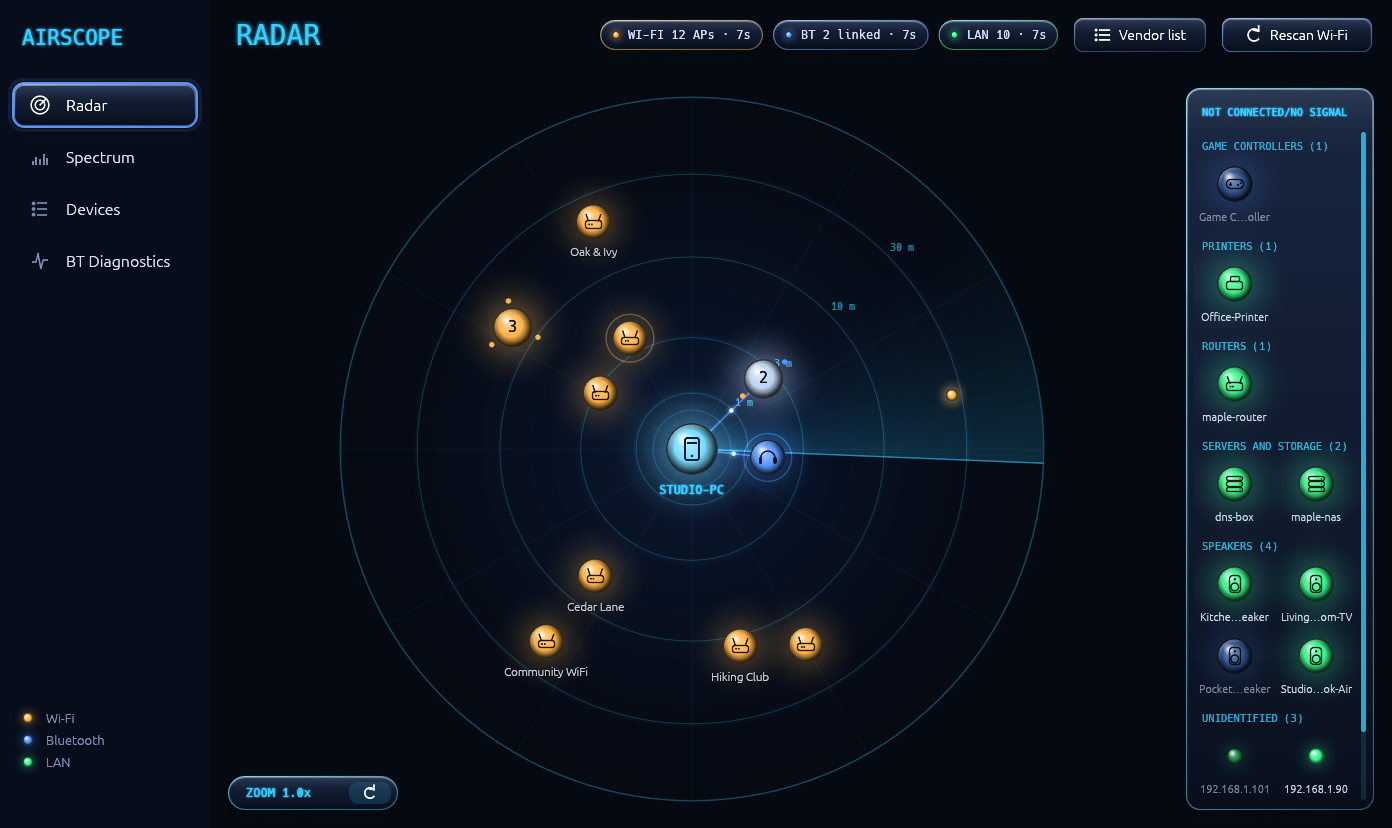
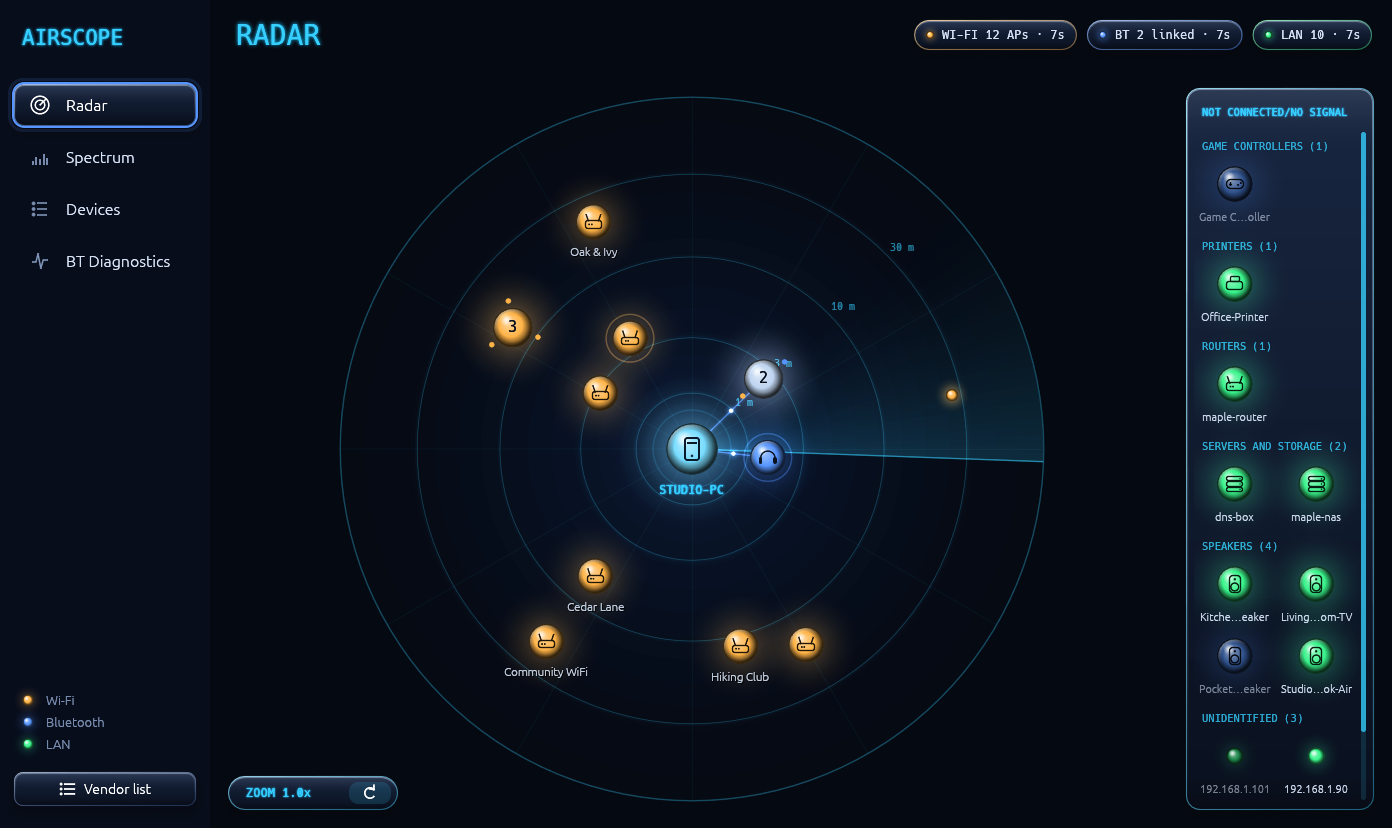
Help boxes for Diagnostics and Spectrum; refreshed screenshots and docs
- Help button on screens that have something the picture can't say; the boxes explain system log vs recording, and Spectrum overlap, Bluetooth hopping, channel choice and where the data comes from
- Screenshots regenerated for the new header, sidebar and tiles; two help screenshots added
- README credits Font Awesome Free for the question mark

Changed region(s): [[0.4325, 0.0, 0.9885, 0.0604], [0.0, 0.8454, 0.1545, 0.9662], [0.6487, 0.5435, 0.7414, 0.5737]]

diff --git a/src/main.rs b/src/main.rs
@@ -196,6 +196,54 @@ fn node_widget(ui: &egui::Ui, p: &egui::Painter, d: &Dev, n: &N, ni: usize, pos:
     }
 }
 
+/// What a help box row's marker looks like.
+#[derive(Clone, Copy)]
+enum Mark {
+    Dot(Color32),
+    Dash,
+}
+
+const SPECTRUM_HELP: [(Mark, &str, &str); 4] = [
+    (Mark::Dash, "Why the hills overlap", "A Wi-Fi network is about 20 MHz wide but channels are only 5 MHz apart, so it spills over its neighbours. Only channels 1, 6 and 11 stay clear of each other: a network on channel 3 disturbs both 1 and 6."),
+    (Mark::Dash, "Reading the Bluetooth rows", "Bluetooth shares this band with Wi-Fi. A lit cell is a channel the device hops on; gaps are channels it steers around because they were noisy. A fully lit row means it can't avoid anything, so it suffers most when Wi-Fi is busy."),
+    (Mark::Dash, "Choosing a channel", "Compare the three tiles at the bottom: the one with fewer and weaker networks is the quietest place for your router. Airscope only reports, it never changes a setting."),
+    (Mark::Dash, "Where the data comes from", "Airscope never starts a Wi-Fi scan itself, because a scan briefly disturbs Bluetooth on a shared chip. It shows what the system's own periodic scans find, so changes can take a little while to appear."),
+];
+
+/// A help box under the header's "?" button: a title and rows of marker, heading and wrapped description.
+/// Returns its rectangle (for outside-click closing).
+fn help_panel(ctx: &egui::Context, btn: Rect, title: &str, rows: &[(Mark, &str, &str)]) -> Rect {
+    let (w, pad) = (520.0f32, 20.0);
+    let tx = 34.0;
+    let wrap = w - 2.0 * pad - tx;
+    let lay = |t: &str, size: f32, col: Color32| ctx.fonts_mut(|f| f.layout(t.to_string(), FontId::proportional(size), col, wrap));
+    let laid: Vec<_> = rows.iter().map(|(_, h, d)| (lay(h, 14.0, Color32::WHITE), lay(d, 12.5, DIM))).collect();
+    let h = pad + 22.0 + 14.0 + laid.iter().map(|(a, b)| a.size().y + b.size().y + 16.0).sum::<f32>() + pad - 6.0;
+    let r = Rect::from_min_size(pos2((btn.right() - w).max(10.0), btn.bottom() + 8.0), vec2(w, h));
+    egui::Area::new(egui::Id::new("screen_help")).order(egui::Order::Foreground).fade_in(false).fixed_pos(r.min).show(ctx, |ui| {
+        let (_, _) = ui.allocate_exact_size(r.size(), Sense::click());
+        let p = ui.painter_at(r.expand(40.0));
+        panel(&p, r, 14.0, BLUE);
+        lcd(&p, pos2(r.left() + pad, r.top() + pad + 11.0), Align2::LEFT_CENTER, title, 16.0, CYAN);
+        let mut y = r.top() + pad + 22.0 + 14.0;
+        p.line_segment([pos2(r.left() + pad, y - 6.0), pos2(r.right() - pad, y - 6.0)], Stroke::new(1.0, alpha(CYAN, 0.2)));
+        for ((mark, _, _), (head, desc)) in rows.iter().zip(laid) {
+            let mc = pos2(r.left() + pad + 8.0, y + 9.0);
+            match mark {
+                Mark::Dot(c) => dot(&p, mc, 4.5, *c, 0.2),
+                Mark::Dash => {
+                    p.line_segment([mc - vec2(4.0, 0.0), mc + vec2(4.0, 0.0)], Stroke::new(1.5, alpha(CYAN, 0.7)));
+                }
+            }
+            let (hh, dh) = (head.size().y, desc.size().y);
+            p.galley(pos2(r.left() + pad + tx, y), head, Color32::WHITE);
+            p.galley(pos2(r.left() + pad + tx, y + hh + 2.0), desc, DIM);
+            y += hh + dh + 16.0;
+        }
+    });
+    r
+}
+
 #[derive(Clone, Copy, PartialEq)]
 enum Screen {
     Radar,
@@ -484,7 +532,7 @@ impl App {
 
     /// Screens that have an "About this screen" button (the rest explain themselves).
     fn has_help(s: Screen) -> bool {
-        matches!(s, Screen::Diagnostics)
+        matches!(s, Screen::Diagnostics | Screen::Spectrum)
     }
 
     /// Dialog for importing a newer vendor list, drawn like the rest of the app: centred, dimmed backdrop.
@@ -2572,7 +2620,10 @@ impl eframe::App for App {
             let btn = self.help_btn.filter(|_| Self::has_help(self.screen));
             match btn {
                 Some(b) => {
-                    let r = diag::Diag::help_box(ui.ctx(), b);
+                    let r = match self.screen {
+                        Screen::Spectrum => help_panel(ui.ctx(), b, "SPECTRUM", &SPECTRUM_HELP),
+                        _ => diag::Diag::help_box(ui.ctx(), b),
+                    };
                     let (esc, out) = ui.input(|i| (i.key_pressed(egui::Key::Escape), i.pointer.primary_clicked() && i.pointer.interact_pos().map_or(false, |q| !r.contains(q) && !b.contains(q))));
                     if esc || out {
                         self.help_open = false;

diff --git a/src/diag/page.rs b/src/diag/page.rs
@@ -876,11 +876,9 @@ impl Diag {
             ("Data packet counts", (false, ""), (true, "")),
             ("Starts at once, no password", (true, ""), (false, "asks for your password")),
         ];
-        let bullets = [
+        let bullets: [&str; 2] = [
             "System log: look here to see what already happened.",
             "Recording: start one while the trouble is happening, to learn why.",
-            "Click a device card for its details; \"Show only this device\" filters the table.",
-            "Library reopens or deletes saved recordings. Export saves the report as a file.",
         ];
         let (row_h, pad) = (30.0, 20.0);
         let h = pad + 22.0 + 14.0 + 30.0 + rows.len() as f32 * row_h + 18.0 + bullets.len() as f32 * 24.0 + pad;

diff --git a/CLAUDE.md b/CLAUDE.md
@@ -30,7 +30,7 @@ Native Linux GUI (Rust, egui/eframe 0.37, glow) visualising Wi-Fi / Bluetooth / 
 - Ids must be unique: a router's BSSID can equal its LAN MAC; `sync()` suffixes the later duplicate (`~lan`). Animation state maps are keyed by id — duplicates broke grouping once.
 - Info box (`popup`) and tooltips are shared across screens and fade (`pops`, `tip_want`).
 - Window: 4x MSAA requested (`window_options`); `main` catches a failed start (eframe errors or panics when no MSAA config exists) and re-execs itself with `AIRSCOPE_FALLBACK=1` (no MSAA); `AIRSCOPE_MSAA=<n>` overrides the count (0 = off). Debug env switches: `AIRSCOPE_DEMO` (`=bad`: keyboard red, headphones amber), `AIRSCOPE_SHOT`, `AIRSCOPE_VENDOR`, `AIRSCOPE_ZOOM`, `AIRSCOPE_SCREEN=spectrum|devices`, `AIRSCOPE_SEL=<id>`, `AIRSCOPE_DEMO_CHAN=<n>` (demo: put "Maple House" on channel n, to test the Spectrum tiles), `AIRSCOPE_PIN_BIG`, `AIRSCOPE_AUTO`, `AIRSCOPE_SLOW`.
-- Responsive layout (min window 1000x640; check headless with `cage` + `wlr-randr --output HEADLESS-1 --custom-mode WxH`): header chips pick one of three texts (full / count only / name only) that fits beside the title, always with a tooltip and no hand cursor, and the "?" help button (`has_help`; Diagnostics only so far, box = `Diag::help_box`) sits at the right (`header()`); Diagnostics row 1 turns Record/Stop/Open/Copy/Save into icon-only buttons with tooltips below ~930 px of content width and middle-truncates the filename (`fit_middle`, full name on hover); Devices filters are plain chips ("LAN" for network) with state tooltips and no "SHOW" label; Spectrum legend width = 22% of the window (150–300 px) with middle-truncated names; radar zoom block has a reset icon (was "1:1"). `toggle_chip` takes a tooltip, `icon_label`/`action_button` centre the icon when the label is empty.
+- Responsive layout (min window 1000x640; check headless with `cage` + `wlr-randr --output HEADLESS-1 --custom-mode WxH`): header chips pick one of three texts (full / count only / name only) that fits beside the title, always with a tooltip and no hand cursor, and the "?" help button (`has_help`; Diagnostics only so far, box = `Diag::help_box`; Spectrum: `help_panel` + `SPECTRUM_HELP`; only where it explains something the UI can't) sits at the right (`header()`); Diagnostics row 1 turns Record/Stop/Open/Copy/Save into icon-only buttons with tooltips below ~930 px of content width and middle-truncates the filename (`fit_middle`, full name on hover); Devices filters are plain chips ("LAN" for network) with state tooltips and no "SHOW" label; Spectrum legend width = 22% of the window (150–300 px) with middle-truncated names; radar zoom block has a reset icon (was "1:1"). `toggle_chip` takes a tooltip, `icon_label`/`action_button` centre the icon when the label is empty.
 - Testing: screenshot with `spectacle -b -n -a -o <file>`; don't screenshot while Peter is using the screen (once captured his browser — deleted).
 
 ## Portability roadmap (goal: no external tools)
@@ -38,4 +38,4 @@ Done: HCI (`hci.rs`), BlueZ D-Bus, NetworkManager D-Bus (stated requirement for 
 
 ## Not done yet
 Problems: `hci::watch` (unprivileged HCI socket, Connection/Disconnection Complete only — kernel blocks Mode Change/Completed Packets without root) feeds per-device drop events with reason codes (`hci::reason`); `data::apply_events` fills `Dev.issue` and sets two levels: red `Dev.trouble` (radio-reason drops; ≥3 reconnects in 10 min; another device dropping within 2 s = "Shared cause" note) and amber `Dev.caution` (≤22 usable channels, battery ≤ 15%); low link quality (< 75% of own 30-min best) and weak RSSI (≤ -10) are NOT flags on their own, they only add notes/severity when a radio-reason drop happened in the last 15 min (a device can work fine on a low reading); `apply_events` takes `peers` (id, name, events of all devices); the popup shows a glowing ring+dot indicator (red issue / amber warning, tooltip says which), a battery icon (BT, when known) and for connected BT three meters LINK / SIGNAL (RSSI relative to ideal range, NOT dBm: absolute dBm needs inquiry scanning, which disturbs the shared radio) / CHANNELS; info box shows an ISSUE button by the name that toggles an inner box with `Dev.issue` (closes on click outside); Devices list rows end with CONNECTED label, one unit-less strength bar (Wi-Fi dBm, or `data::bt_quality` = the weaker of link quality and RSSI for Bluetooth) and the ISSUE/WARNING chip; clicking anywhere outside the info boxes closes the open one (selection unchanged this frame = click on nothing); `led_bar` segments use `glow_rect`; link quality shown as % (`data::lq_pct`); boxes scroll with a visible scrollbar and `App.wheel`/`popup_rects` route the wheel to the box under the mouse instead of zooming the radar. `AIRSCOPE_ISSUE=1` opens the inner box at start. Root capture is done by pkexec-ing the system btmon (see `capture.rs`), not by a helper of ours (AppImage+pkexec FUSE problem avoided); `setcap` on a copy of btmon would allow a Stop without a second password (untested idea). Halo: red/amber pulsing (also rings a group containing such a device); no legend entry until seen on real hardware; `AIRSCOPE_DEMO=bad` fakes one. Not done: settings panel, LAN scan button, `.desktop` launcher, reset-positions option.
-- System log source (`src/diag/logview.rs`: range controls + reports; rows/cards/tiles are in `page.rs`, `src/syslog.rs`): reads `journalctl` (bluetooth unit + kernel, `-o short-unix`) on a thread for a chosen range; fixed phrase table in `syslog::classify` (Problem/Symptom/Info); "Since last recording" = newest finished capture's mtime. Date/time picker widget: `src/dtpick.rs` (libc local time, no date crate). Debug: `AIRSCOPE_LOGPICK=1` opens the custom range with the start calendar.
+- System log source (`src/diag/logview.rs`: range controls + reports; rows/cards/tiles are in `page.rs`, `src/syslog.rs`): reads `journalctl` (bluetooth unit + kernel, `-o short-unix`) on a thread for a chosen range; fixed phrase table in `syslog::classify` (Problem/Symptom/Info); "Since last recording" = newest finished capture's mtime. Kernel "registered as a new input device" lines only carry the device's name, so `page::resolve_input_names` gives them the address of the nearest input-profile BlueZ line within 30 s, else the address that name was paired with, else the one known device with that name (several with no clue stay name-only). Date/time picker widget: `src/dtpick.rs` (libc local time, no date crate). Debug: `AIRSCOPE_LOGPICK=1` opens the custom range with the start calendar.

diff --git a/docs/STYLE.md b/docs/STYLE.md
@@ -5,6 +5,7 @@ How the app looks and behaves, so new screens and changes stay consistent. The c
 ## Principles
 
 1. **Show, don't explain.** Use colour, shape, position and icons before words. No help paragraphs, no "how to use" hints on a screen (the radar's "scroll · drag · double-click" hint and the "SHOW" label were removed for this reason). A short caption is fine when a picture truly can't carry the meaning.
+1a. **Help boxes are the one place for explanation** (the round "?" in the header, only on screens with something the picture can't say: Diagnostics, Spectrum). They explain what isn't obvious or what the UI can't show (why things overlap, what a lit cell means, how the system log differs from a recording), never just name the parts of the display. A screen that explains itself (Radar, Devices) gets no button.
 2. **Tooltips carry what the picture can't:** the name of an icon-only button, the full text of something shortened, and the current state of a toggle ("Showing Wi-Fi networks. Click to hide them."). Never a tooltip that only repeats the label. That something is clickable is shown by the pointing-hand cursor together with a visible hover reaction (glow, cyan border or popup), not by words: no "click for details" on radar nodes or cards. The hand cursor is not a desktop-app convention, so it is only ever used with that hover reaction.
 3. **Nothing moves under the pointer.** Feedback (copied, saved, failed) is shown on the control itself, not as a message that pushes the layout around.
 3a. **Nothing flickers.** A value, text or popup that updates by itself (a chip's "7s" counting up, a refreshed list) changes in place: no fade restarts, no blank frame, no relayout jump. Anything keyed to what it is (the widget asking), not to its current text.

diff --git a/README.md b/README.md
@@ -38,7 +38,7 @@ link dropped and why. It is a native Linux app (Rust, egui) that runs on Wayland
   you weren't looking. The **Library** button lists your past recordings (analysed in the background,
   deletable) and opens any capture file. It tells
   radio-type drops (connection timeouts) from normal ones (a device going to sleep), and shows slow answers from
-  the Bluetooth controller. Reports can be copied or saved.
+  the Bluetooth controller. Reports can be copied or exported. The **?** button explains how the system log differs from a recording.
 - **Vendor names** from a built-in MAC prefix list that you can update yourself (see below).
 
 | | |
@@ -46,6 +46,7 @@ link dropped and why. It is a native Linux app (Rust, egui) that runs on Wayland
 | ![Device info](docs/screenshots/radar-info.png) | ![Spectrum](docs/screenshots/spectrum.png) |
 | ![Devices](docs/screenshots/devices.png) | ![BT Diagnostics](docs/screenshots/diagnostics.png) |
 | ![Device details](docs/screenshots/diagnostics-device.png) | ![Vendor list](docs/screenshots/vendor-list.png) |
+| ![BT Diagnostics help](docs/screenshots/diagnostics-help.png) | ![Spectrum help](docs/screenshots/spectrum-help.png) |
 
 *(All screenshots use the built-in demo data: invented networks, devices and a made-up Bluetooth capture.)*
 
@@ -134,3 +135,5 @@ Releases are built by GitHub Actions when a tag is pushed: bump `version` in `Ca
 ## License
 
 [MIT](LICENSE)
+
+The question mark on the help button is from [Font Awesome Free](https://fontawesome.com) (CC BY 4.0).
